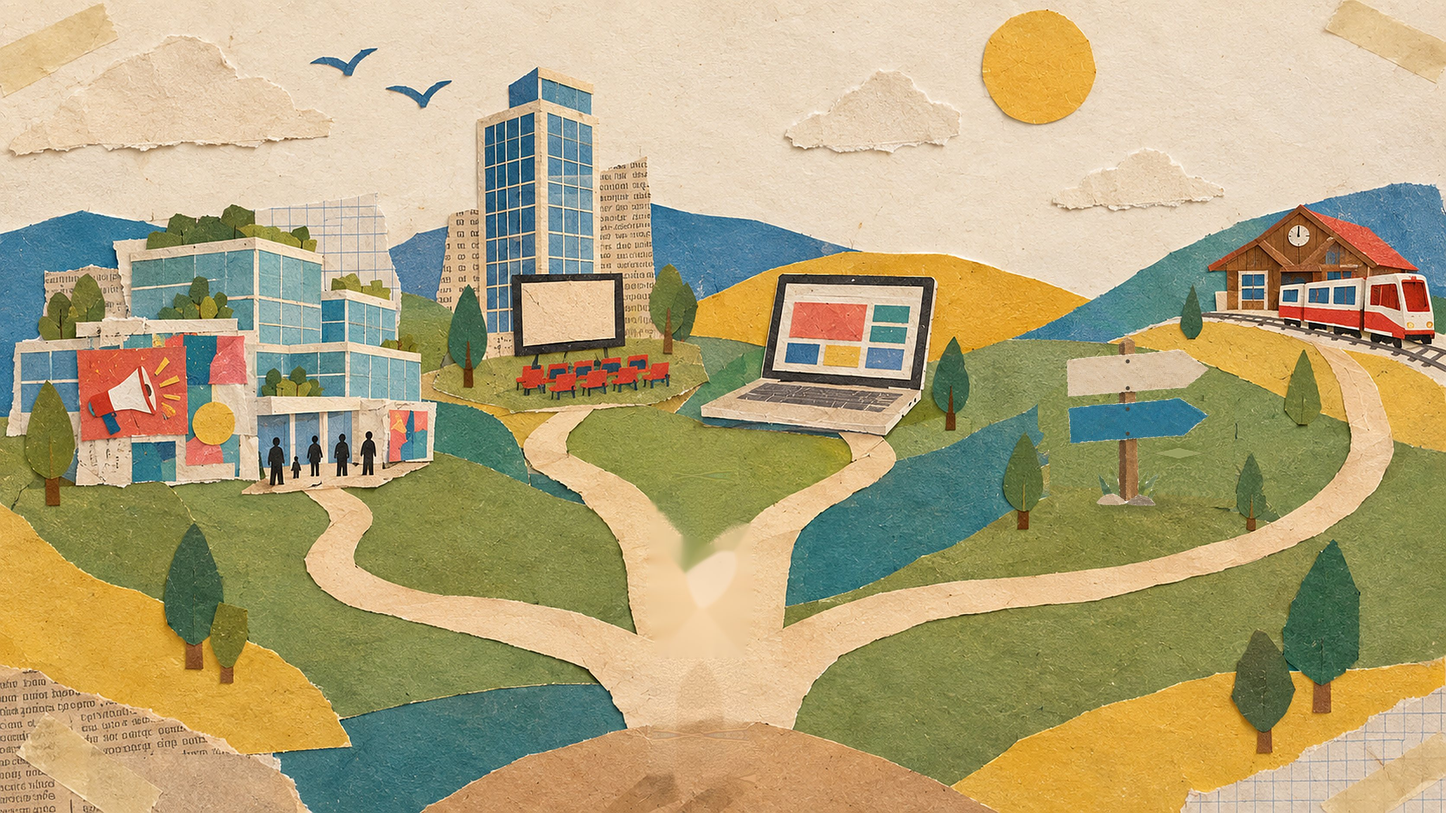
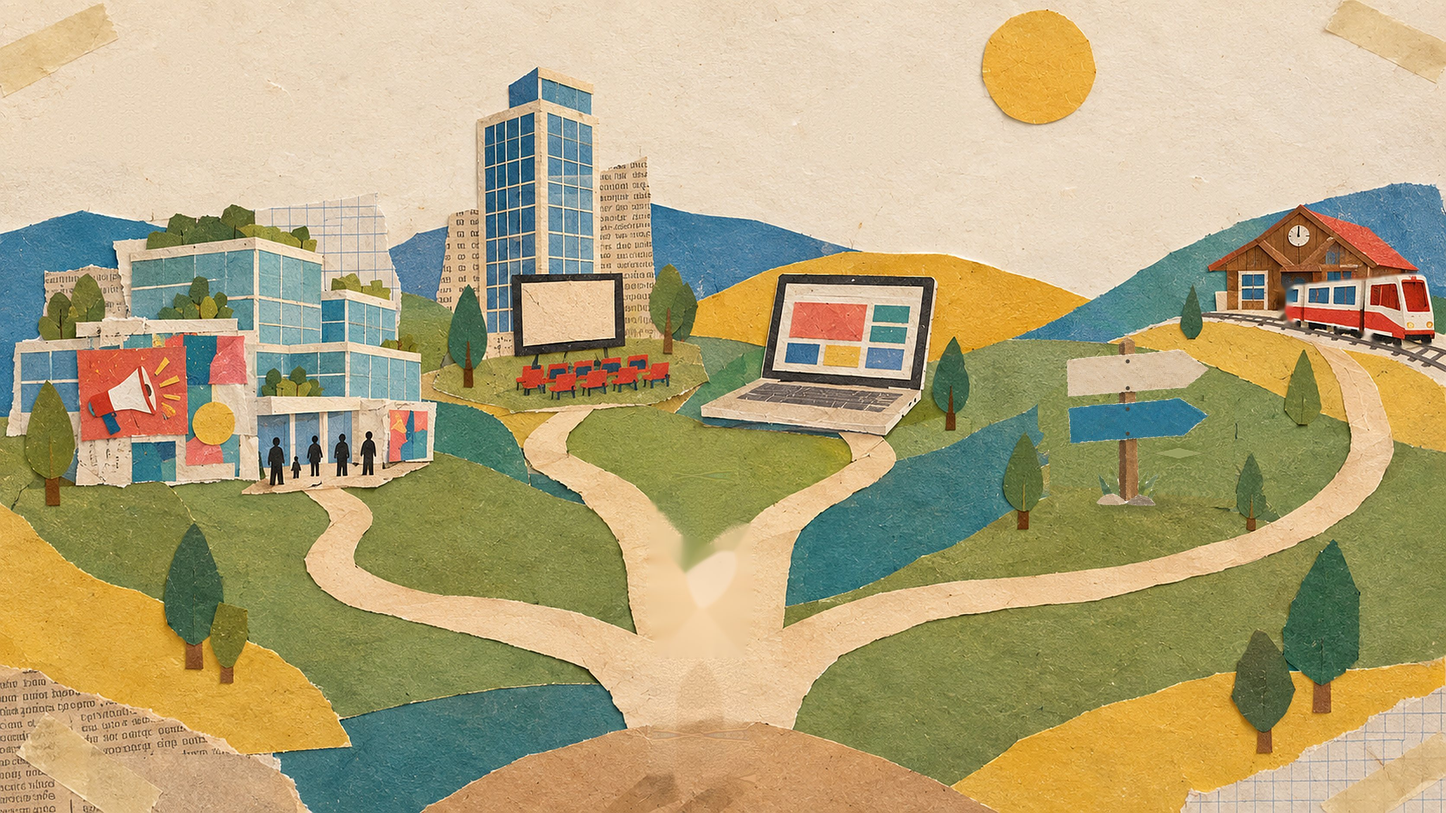
Add files via upload

diff --git a/js/app.js b/js/app.js
@@ -1,5 +1,5 @@
 // Julian Frick – Website. Inhalte kommen aus /content/*.json (bearbeitbar unter /admin).
-const PIECES = {"uni": {"x": 0.54, "y": 25.21, "w": 29.25, "h": 33.62, "clip": "polygon(89.7% 1.1%,60.8% 0.9%,59.2% 1.9%,53.7% 0.0%,37.7% 2.5%,36.4% 3.3%,32.9% 12.3%,28.8% 16.9%,27.4% 22.8%,8.5% 23.7%,8.4% 48.1%,0.7% 50.3%,0.0% 52.1%,0.0% 99.7%,99.2% 99.8%,99.9% 75.2%,97.9% 54.6%,92.7% 50.3%,92.7% 31.5%,90.3% 23.1%)"}, "tower": {"x": 30.02, "y": 10.11, "w": 17.58, "h": 38.94, "clip": "polygon(17.2% 11.7%,17.0% 38.5%,15.0% 40.2%,7.7% 41.3%,5.8% 42.5%,3.7% 60.1%,1.7% 68.6%,2.9% 69.3%,5.8% 69.3%,7.1% 70.4%,7.1% 77.0%,6.1% 79.9%,1.0% 83.5%,0.0% 94.8%,12.8% 98.2%,45.2% 99.9%,81.3% 98.8%,98.0% 94.4%,99.8% 86.6%,98.5% 70.4%,97.8% 68.0%,93.4% 64.5%,92.5% 64.5%,87.8% 68.4%,85.7% 78.7%,84.7% 80.5%,82.7% 81.1%,77.7% 81.1%,75.9% 80.6%,75.0% 79.5%,75.0% 62.4%,75.9% 61.3%,77.4% 60.9%,81.1% 61.6%,85.5% 61.2%,85.2% 35.7%,83.8% 30.9%,83.5% 23.6%,81.5% 23.5%,78.2% 24.9%,72.6% 25.7%,66.7% 27.6%,63.6% 27.3%,62.4% 26.0%,62.4% 20.1%,63.3% 19.0%,64.8% 18.6%,64.1% 15.3%,64.5% 11.6%,55.1% 8.5%,44.0% 5.7%,42.3% 4.1%,42.2% 0.0%,40.8% 0.1%,40.8% 4.4%,39.5% 5.7%)"}, "laptop": {"x": 48.27, "y": 33.72, "w": 16.39, "h": 20.32, "clip": "polygon(0.0% 78.8%,1.1% 88.0%,78.5% 99.7%,93.2% 82.7%,93.2% 72.5%,97.6% 61.8%,99.8% 1.8%,33.0% 0.0%,29.2% 56.5%)"}, "sign": {"x": 73.74, "y": 41.38, "w": 9.84, "h": 20.85, "clip": "polygon(43.5% 0.0%,40.4% 1.0%,36.5% 4.8%,37.1% 10.2%,35.3% 11.2%,18.5% 11.7%,0.6% 14.5%,1.2% 35.2%,33.1% 32.9%,37.1% 33.9%,36.2% 39.5%,1.5% 42.3%,2.4% 62.2%,4.9% 63.0%,36.5% 61.0%,36.5% 83.4%,30.1% 75.8%,29.2% 87.8%,22.5% 81.4%,26.1% 93.9%,21.3% 98.0%,25.8% 99.2%,42.6% 98.2%,50.2% 99.7%,59.6% 99.7%,62.3% 99.0%,59.9% 95.7%,65.0% 90.1%,59.9% 89.8%,64.4% 81.1%,56.8% 85.7%,57.1% 79.8%,52.0% 84.7%,50.2% 84.7%,49.5% 60.5%,70.2% 58.4%,81.5% 58.7%,99.7% 46.4%,79.6% 36.2%,49.5% 38.8%,48.3% 37.8%,48.3% 32.9%,53.8% 31.4%,83.3% 30.4%,99.7% 18.9%,82.1% 8.2%,74.5% 7.7%,67.5% 9.2%,48.9% 10.2%,47.7% 2.8%)"}, "train": {"x": 83.34, "y": 25.53, "w": 15.88, "h": 17.55, "clip": "polygon(1.3% 40.9%,2.3% 44.5%,8.1% 43.9%,10.0% 46.4%,9.6% 60.0%,7.0% 72.7%,0.0% 76.1%,3.4% 79.1%,8.5% 79.1%,16.6% 82.7%,27.7% 81.5%,33.9% 84.5%,36.3% 83.9%,42.4% 85.8%,44.4% 88.2%,48.4% 87.6%,50.7% 85.2%,58.0% 89.4%,62.7% 88.8%,66.7% 91.8%,69.9% 90.0%,74.2% 94.8%,81.5% 95.5%,83.2% 99.7%,85.1% 99.4%,85.9% 93.6%,87.4% 92.4%,92.8% 93.0%,95.3% 95.5%,98.1% 95.5%,99.8% 90.9%,99.4% 74.8%,96.0% 49.4%,93.0% 46.1%,92.7% 42.4%,85.7% 34.5%,71.0% 13.9%,46.3% 2.4%,45.4% 0.0%,38.8% 0.0%,37.5% 3.0%,23.7% 20.0%)"}, "cupid": {"x": 77.5, "y": 12.5, "w": 4.4, "h": 5.76}, "figur": {"x": 44.26, "y": 54.15, "w": 8.79, "h": 43.62}, "ki": {"x": 57.79, "y": 80.94, "w": 6.31, "h": 7.15}, "flugzeug": {"x": 42.76, "y": 4.79, "w": 7.48, "h": 4.47}, "fahnen": {"x": 93.66, "y": 18.72, "w": 3.17, "h": 4.47}, "dokumente": {"x": 89.23, "y": 84.36, "w": 8.97, "h": 13.3}, "herzwolke": {"x": 77.51, "y": 11.28, "w": 5.38, "h": 6.38}};
+const PIECES = {"uni": {"x": 0.54, "y": 25.21, "w": 29.25, "h": 33.62, "clip": "polygon(89.7% 1.1%,60.8% 0.9%,59.2% 1.9%,53.7% 0.0%,37.7% 2.5%,36.4% 3.3%,32.9% 12.3%,28.8% 16.9%,27.4% 22.8%,8.5% 23.7%,8.4% 48.1%,0.7% 50.3%,0.0% 52.1%,0.0% 99.7%,99.2% 99.8%,99.9% 75.2%,97.9% 54.6%,92.7% 50.3%,92.7% 31.5%,90.3% 23.1%)"}, "tower": {"x": 30.02, "y": 10.11, "w": 17.58, "h": 38.94, "clip": "polygon(17.2% 11.7%,17.0% 38.5%,15.0% 40.2%,7.7% 41.3%,5.8% 42.5%,3.7% 60.1%,1.7% 68.6%,2.9% 69.3%,5.8% 69.3%,7.1% 70.4%,7.1% 77.0%,6.1% 79.9%,1.0% 83.5%,0.0% 94.8%,12.8% 98.2%,45.2% 99.9%,81.3% 98.8%,98.0% 94.4%,99.8% 86.6%,98.5% 70.4%,97.8% 68.0%,93.4% 64.5%,92.5% 64.5%,87.8% 68.4%,85.7% 78.7%,84.7% 80.5%,82.7% 81.1%,77.7% 81.1%,75.9% 80.6%,75.0% 79.5%,75.0% 62.4%,75.9% 61.3%,77.4% 60.9%,81.1% 61.6%,85.5% 61.2%,85.2% 35.7%,83.8% 30.9%,83.5% 23.6%,81.5% 23.5%,78.2% 24.9%,72.6% 25.7%,66.7% 27.6%,63.6% 27.3%,62.4% 26.0%,62.4% 20.1%,63.3% 19.0%,64.8% 18.6%,64.1% 15.3%,64.5% 11.6%,55.1% 8.5%,44.0% 5.7%,42.3% 4.1%,42.2% 0.0%,40.8% 0.1%,40.8% 4.4%,39.5% 5.7%)"}, "laptop": {"x": 48.27, "y": 33.72, "w": 16.39, "h": 20.32, "clip": "polygon(0.0% 78.8%,1.1% 88.0%,78.5% 99.7%,93.2% 82.7%,93.2% 72.5%,97.6% 61.8%,99.8% 1.8%,33.0% 0.0%,29.2% 56.5%)"}, "sign": {"x": 73.74, "y": 41.38, "w": 9.84, "h": 20.85, "clip": "polygon(43.5% 0.0%,40.4% 1.0%,36.5% 4.8%,37.1% 10.2%,35.3% 11.2%,18.5% 11.7%,0.6% 14.5%,1.2% 35.2%,33.1% 32.9%,37.1% 33.9%,36.2% 39.5%,1.5% 42.3%,2.4% 62.2%,4.9% 63.0%,36.5% 61.0%,36.5% 83.4%,30.1% 75.8%,29.2% 87.8%,22.5% 81.4%,26.1% 93.9%,21.3% 98.0%,25.8% 99.2%,42.6% 98.2%,50.2% 99.7%,59.6% 99.7%,62.3% 99.0%,59.9% 95.7%,65.0% 90.1%,59.9% 89.8%,64.4% 81.1%,56.8% 85.7%,57.1% 79.8%,52.0% 84.7%,50.2% 84.7%,49.5% 60.5%,70.2% 58.4%,81.5% 58.7%,99.7% 46.4%,79.6% 36.2%,49.5% 38.8%,48.3% 37.8%,48.3% 32.9%,53.8% 31.4%,83.3% 30.4%,99.7% 18.9%,82.1% 8.2%,74.5% 7.7%,67.5% 9.2%,48.9% 10.2%,47.7% 2.8%)"}, "train": {"x": 83.34, "y": 25.53, "w": 15.88, "h": 17.55, "clip": "polygon(1.3% 40.9%,2.3% 44.5%,8.1% 43.9%,10.0% 46.4%,9.6% 60.0%,7.0% 72.7%,0.0% 76.1%,3.4% 79.1%,8.5% 79.1%,16.6% 82.7%,27.7% 81.5%,33.9% 84.5%,36.3% 83.9%,42.4% 85.8%,44.4% 88.2%,48.4% 87.6%,50.7% 85.2%,58.0% 89.4%,62.7% 88.8%,66.7% 91.8%,69.9% 90.0%,74.2% 94.8%,81.5% 95.5%,83.2% 99.7%,85.1% 99.4%,85.9% 93.6%,87.4% 92.4%,92.8% 93.0%,95.3% 95.5%,98.1% 95.5%,99.8% 90.9%,99.4% 74.8%,96.0% 49.4%,93.0% 46.1%,92.7% 42.4%,85.7% 34.5%,71.0% 13.9%,46.3% 2.4%,45.4% 0.0%,38.8% 0.0%,37.5% 3.0%,23.7% 20.0%)"}, "cupid": {"x": 77.5, "y": 12.5, "w": 4.4, "h": 5.76}, "figur": {"x": 44.26, "y": 54.15, "w": 8.79, "h": 43.62}, "ki": {"x": 57.79, "y": 80.94, "w": 6.31, "h": 7.15}, "flugzeug": {"x": 42.76, "y": 4.79, "w": 7.48, "h": 4.47}, "fahnen": {"x": 93.66, "y": 18.72, "w": 3.17, "h": 4.47}, "dokumente": {"x": 89.23, "y": 84.36, "w": 8.97, "h": 13.3}, "herzwolke": {"x": 77.51, "y": 11.28, "w": 5.38, "h": 6.38}, "wolke1": {"x": 0.0, "y": 3.351, "w": 23.295, "h": 17.128}, "wolke2": {"x": 53.678, "y": 7.553, "w": 13.278, "h": 12.926}, "wolke3": {"x": 72.159, "y": 17.394, "w": 12.859, "h": 10.0}, "vogel1": {"x": 21.411, "y": 5.745, "w": 4.785, "h": 3.723}, "vogel2": {"x": 26.675, "y": 9.681, "w": 4.665, "h": 3.723}, "zug": {"x": 88.337, "y": 33.404, "w": 10.945, "h": 9.468}};
 const SPOTS = [
   {id:"ausbildung", piece:"uni",    tilt:"-1.5deg"},
   {id:"erfahrung",  piece:"tower",  tilt:"1.2deg"},
@@ -16,6 +16,11 @@ const EGGS = [
   {id:"easteregg",  piece:"herzwolke"},
 ];
 const DECO = [ {piece:"fahnen", cls:"sway"} ];
+// Hintergrund-Bewegung: Wolken ziehen langsam, Vögel flattern (liegen hinter allen klickbaren Orten)
+const AMBIENT = [
+  {piece:"wolke1", cls:"drift d1"}, {piece:"wolke2", cls:"drift d2"}, {piece:"wolke3", cls:"drift d3"},
+  {piece:"vogel1", cls:"flap f1"},  {piece:"vogel2", cls:"flap f2"},
+];
 const HINT_KEY = "jf-hint-seen";
 const BASE = document.documentElement.dataset.base || "";
 const url = p => !p ? "" : /^(https?:|mailto:|tel:|data:|blob:)/.test(p) ? p : BASE + p.replace(/^\/+/, "");
@@ -33,8 +38,13 @@ async function buildScene(){
   const stage = document.getElementById("stage");
   let g = {}; try { g = await load("allgemein"); } catch(e) {}
   const labels = g.beschriftungen || {};
-  if (g.name) { document.getElementById("name").textContent = g.name; }
-  if (g.hinweis) document.getElementById("hint").textContent = g.hinweis;
+  { const n = document.createElement("div"); n.className = "nametag"; n.textContent = g.name || "Julian Frick"; stage.appendChild(n); document.title = g.name || document.title; }
+  for (const a of AMBIENT){
+    const p = PIECES[a.piece], el = document.createElement("img");
+    el.className = "deco " + a.cls; el.alt = ""; el.src = url("img/pieces/"+a.piece+".webp");
+    el.style.cssText = `left:${p.x}%;top:${p.y}%;width:${p.w}%;height:${p.h}%`;
+    stage.appendChild(el);
+  }
   for (const s of SPOTS){
     const p = PIECES[s.piece], label = labels[s.id] || s.label || s.id;
     const b = document.createElement("button");
@@ -43,6 +53,10 @@ async function buildScene(){
     b.innerHTML = `<img src="${url("img/pieces/"+s.piece+".webp")}" alt=""${p.clip ? ` style="clip-path:${p.clip}"` : ""}><span class="tag">${esc(label)}</span>`;
     if (s.id === "willkommen") b.classList.add("figure");
     const cxp = p.x + p.w/2; if (cxp > 85) b.classList.add("tag-r"); else if (cxp < 12) b.classList.add("tag-l");
+    if (s.id === "kontakt"){
+      const z = PIECES.zug;
+      b.insertAdjacentHTML("beforeend", `<img class="train-move" alt="" src="${url("img/pieces/zug.webp")}" style="left:${(z.x-p.x)/p.w*100}%;top:${(z.y-p.y)/p.h*100}%;width:${z.w/p.w*100}%;height:${z.h/p.h*100}%">`);
+    }
     if (s.id === "suche"){
       const top = g.schild_oben || "Marketing", bottom = g.schild_unten || "Ab Feb. 2027";
       b.insertAdjacentHTML("beforeend", `<span class="board b1">${esc(top)}</span><span class="board b2">${esc(bottom)}</span>`);
@@ -240,7 +254,7 @@ const RENDER = {
 RENDER.easteregg2 = RENDER.easteregg;
 RENDER.easteregg3 = RENDER.easteregg;
 RENDER.willkommen = async (c, box) => {
-  box.innerHTML = `<h2 id="s-title">${esc(c.titel)}</h2><div class="prose">${md(c.text)}</div>`;
+  box.innerHTML = `<h2 id="s-title">${esc(c.titel)}</h2><div class="welcome${c.bild ? " withphoto" : ""}">${c.bild ? `<img class="headshot" src="${esc(url(c.bild))}" alt="${esc(c.bild_text || "Julian Frick")}">` : ""}<div class="prose">${md(c.text)}</div></div>`;
 };
 const NARROW = new Set(["suche","kontakt","downloads","easteregg","easteregg2","easteregg3","willkommen"]);
 let lastFocus = null;

diff --git a/css/style.css b/css/style.css
@@ -8,13 +8,13 @@
 }
 *{box-sizing:border-box}
 html,body{background:var(--ground);color:var(--ink);margin:0}
-body{font-family:var(--body);font-size:15px;padding-inline:16px;padding-block:20px 28px}
+body{font-family:var(--body);font-size:15px;padding-inline:16px;padding-block:16px}
 [hidden]{display:none!important}
 img{max-width:100%}
 .wrap{max-width:1400px;margin:0 auto;display:flex;flex-direction:column;gap:14px}
 .head h1{font-family:var(--type);font-weight:400;font-size:clamp(22px,2.5vw,32px);margin:0}
-.scroller{overflow-x:auto;border-radius:3px;box-shadow:0 1px 0 rgba(0,0,0,.05),0 14px 34px -18px rgba(60,40,10,.45)}
-.stage{position:relative;width:100%;min-width:860px;aspect-ratio:1672/940;background:url(../img/scene.jpg) center/cover;user-select:none}
+.scroller{width:min(100%,calc((100vh - 32px) * 1672 / 940));width:min(100%,calc((100dvh - 32px) * 1672 / 940));margin-inline:auto;overflow-x:auto;border-radius:3px;box-shadow:0 1px 0 rgba(0,0,0,.05),0 14px 34px -18px rgba(60,40,10,.45)}
+.stage{position:relative;overflow:hidden;width:100%;min-width:860px;aspect-ratio:1672/940;background:url(../img/scene.jpg) center/cover;user-select:none}
 .spot{position:absolute;padding:0;margin:0;border:0;background:none;cursor:pointer;pointer-events:none;
   transition:transform .28s cubic-bezier(.3,1.6,.5,1),filter .28s ease;transform-origin:50% 90%}
 .spot img{display:block;width:100%;height:100%;pointer-events:auto;-webkit-user-drag:none}
@@ -135,3 +135,21 @@ a.proj{text-decoration:none}
 .photos figure{margin:0;display:flex;flex-direction:column;gap:6px}
 .photos figcaption{font-size:13px;color:var(--muted)}
 @media (max-width:700px){.block.withdocs{grid-template-columns:1fr}.docs.side{flex-wrap:wrap}}
+.nametag{position:absolute;left:2.2%;top:3.2%;z-index:3;pointer-events:none;background:var(--paper);color:var(--ink);
+  font-family:var(--type);font-size:clamp(17px,2vw,30px);line-height:1;padding:.45em .8em .4em;transform:rotate(-2deg);
+  box-shadow:0 2px 5px rgba(40,25,5,.25)}
+.nametag::before{content:"";position:absolute;top:-.45em;left:50%;width:3.2em;height:.9em;transform:translateX(-50%) rotate(4deg);background:var(--tape)}
+.drift{animation:drift 38s ease-in-out infinite alternate}
+.drift.d2{animation-duration:46s;animation-delay:-12s}
+.drift.d3{animation-duration:42s;animation-delay:-25s;animation-direction:alternate-reverse}
+@keyframes drift{from{transform:translateX(-1.2%)}to{transform:translateX(1.2%)}}
+.drift.d1{animation-name:drift1}
+@keyframes drift1{from{transform:translateX(0)}to{transform:translateX(4%)}}
+.flap{transform-origin:50% 45%;animation:flap 1.1s ease-in-out infinite}
+.flap.f2{animation-duration:1.3s;animation-delay:-.4s}
+@keyframes flap{0%,100%{transform:scaleY(1) translateY(0)}50%{transform:scaleY(.72) translateY(6%)}}
+.spot img.train-move{position:absolute;width:auto;height:auto;pointer-events:auto;animation:train 14s ease-in-out infinite}
+@keyframes train{0%,55%{transform:translate(0,0)}68%{transform:translate(8.4%,3.4%)}72%{transform:translate(8%,3.2%)}88%{transform:translate(8%,3.2%)}100%{transform:translate(0,0)}}
+.welcome.withphoto{display:grid;grid-template-columns:160px 1fr;gap:24px;align-items:start}
+.headshot{width:100%;aspect-ratio:4/5;object-fit:cover;border:7px solid #fff;box-shadow:0 2px 8px rgba(0,0,0,.2);transform:rotate(-2deg)}
+@media (max-width:560px){.welcome.withphoto{grid-template-columns:1fr}.headshot{max-width:180px}}

diff --git a/index.html b/index.html
@@ -11,11 +11,7 @@
 </head>
 <body>
 <div class="wrap">
-  <header class="head"><h1 id="name">Julian Frick</h1></header>
   <div class="scroller" id="scroller"><div class="stage" id="stage"></div></div>
-  <footer class="foot">
-    <span id="hint">Fahren Sie mit der Maus über einen Ort und klicken Sie darauf, um mehr zu sehen.</span>
-  </footer>
 </div>
 
 <div class="veil" id="veil" hidden>
